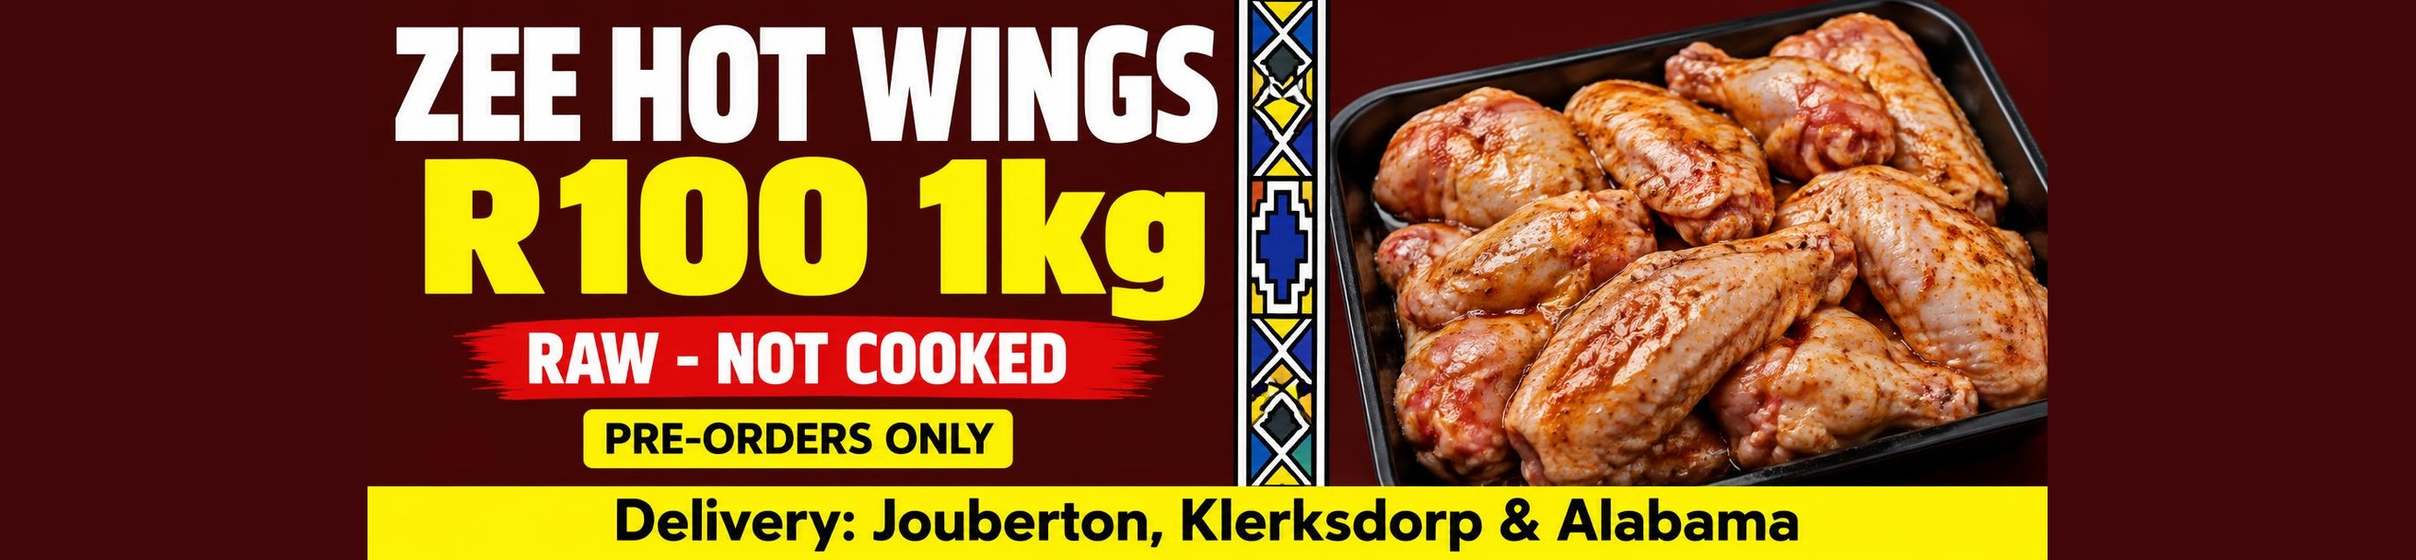
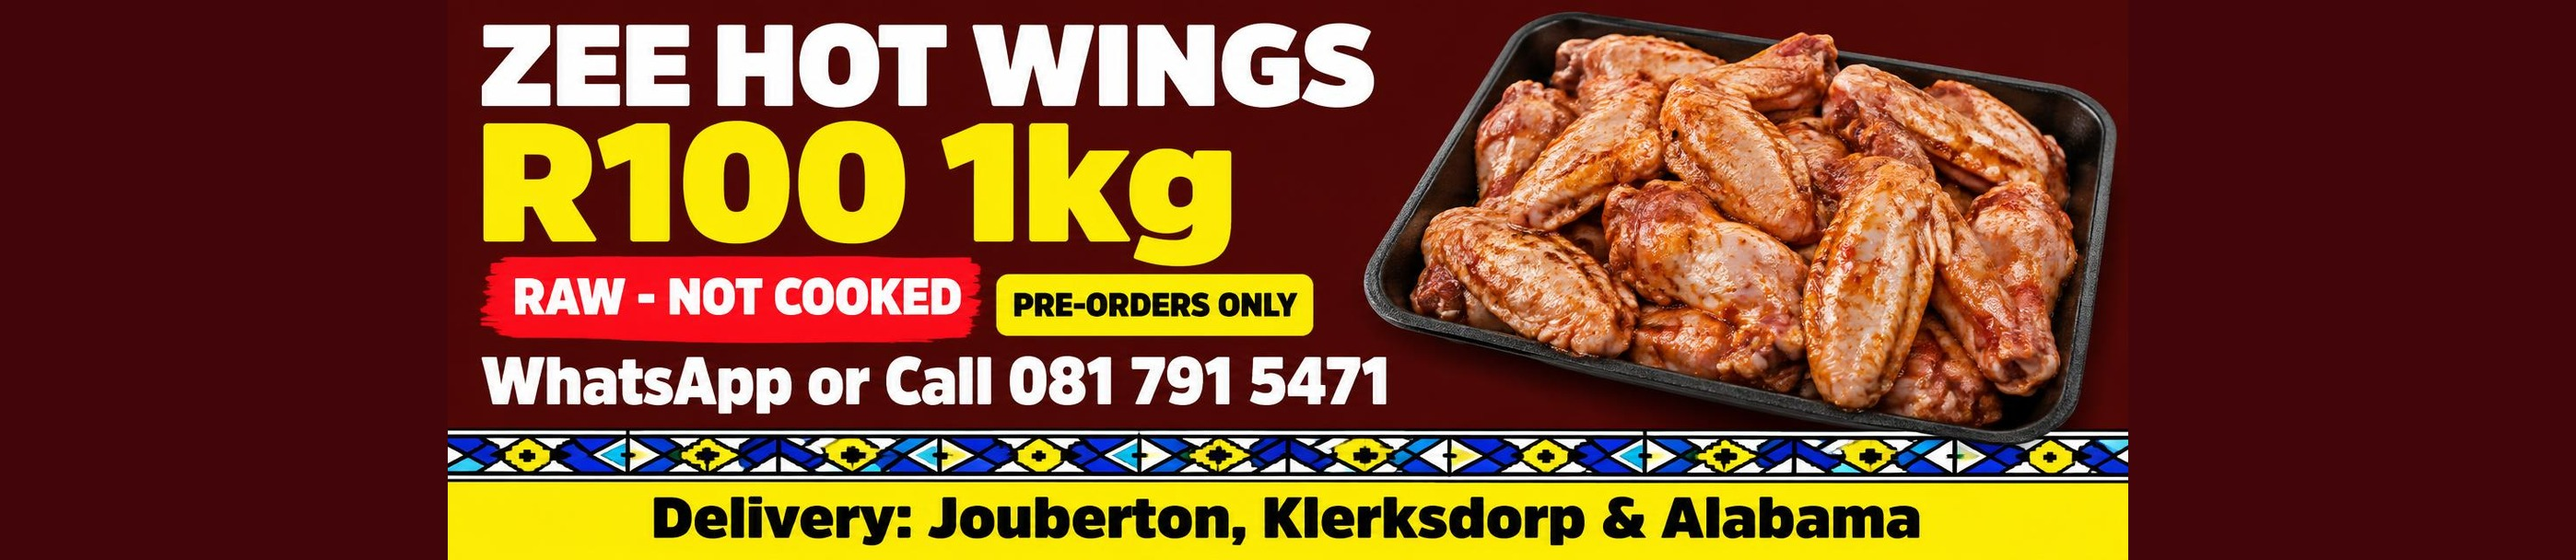
Changes

diff --git a/src/components/ZeeHotWingsSlide.tsx b/src/components/ZeeHotWingsSlide.tsx
@@ -9,10 +9,10 @@ export const ZEE_WHATSAPP_URL =
 /**
  * Zee Hot Wings advert slide.
  *
- * The poster is the whole slide: the phone crop (2.0) fills the short phone
- * band, the wide crop fills tablet and desktop. Below it sits a plain
- * "Order Now on WhatsApp" strip — a real button, not baked into the artwork —
- * and the whole slide is a link so either target opens the chat.
+ * The poster fills the whole slide (phone crop on small screens, wide crop on
+ * tablet and desktop). The "Order Now on WhatsApp" pill floats over the top
+ * right of the artwork, clear of the headline and clear of the slide dots at
+ * the bottom. The whole slide is a link, so tapping anywhere opens the chat.
  */
 export function ZeeHotWingsSlide({ active }: { active: boolean }) {
   return (
@@ -32,43 +32,45 @@ export function ZeeHotWingsSlide({ active }: { active: boolean }) {
         style={{ backgroundColor: '#42060a' }}
         onClick={(e) => e.stopPropagation()}
       >
-        <div className="flex h-full w-full flex-col">
-          <div className="relative min-h-0 flex-1">
-            <img
-              src={zeePhone}
-              alt={`Zee Hot Wings, R100 for 1kg, raw not cooked, pre-orders only. WhatsApp or call ${ZEE_DISPLAY_NUMBER}. Delivery in Jouberton, Klerksdorp and Alabama.`}
-              loading="lazy"
-              width={1536}
-              height={768}
-              draggable={false}
-              className="absolute inset-0 h-full w-full object-contain sm:hidden"
-            />
-            <img
-              src={zeeWide}
-              alt={`Zee Hot Wings, R100 for 1kg, raw not cooked, pre-orders only. WhatsApp or call ${ZEE_DISPLAY_NUMBER}. Delivery in Jouberton, Klerksdorp and Alabama.`}
-              loading="lazy"
-              width={2064}
-              height={576}
-              draggable={false}
-              className="absolute inset-0 hidden h-full w-full object-contain sm:block lg:hidden"
-            />
-            <img
-              src={zeeFull}
-              alt={`Zee Hot Wings, R100 for 1kg, raw not cooked, pre-orders only. WhatsApp or call ${ZEE_DISPLAY_NUMBER}. Delivery in Jouberton, Klerksdorp and Alabama.`}
-              loading="lazy"
-              width={2623}
-              height={608}
-              draggable={false}
-              className="absolute inset-0 hidden h-full w-full object-contain lg:block"
-            />
-          </div>
+        <img
+          src={zeePhone}
+          alt={`Zee Hot Wings, R100 for 1kg, raw not cooked, pre-orders only. WhatsApp or call ${ZEE_DISPLAY_NUMBER}. Delivery in Jouberton, Klerksdorp and Alabama.`}
+          loading="lazy"
+          width={1536}
+          height={768}
+          draggable={false}
+          className="absolute inset-0 h-full w-full object-contain sm:hidden"
+        />
+        <img
+          src={zeeWide}
+          alt={`Zee Hot Wings, R100 for 1kg, raw not cooked, pre-orders only. WhatsApp or call ${ZEE_DISPLAY_NUMBER}. Delivery in Jouberton, Klerksdorp and Alabama.`}
+          loading="lazy"
+          width={2010}
+          height={600}
+          draggable={false}
+          className="absolute inset-0 hidden h-full w-full object-contain sm:block lg:hidden"
+        />
+        <img
+          src={zeeFull}
+          alt={`Zee Hot Wings, R100 for 1kg, raw not cooked, pre-orders only. WhatsApp or call ${ZEE_DISPLAY_NUMBER}. Delivery in Jouberton, Klerksdorp and Alabama.`}
+          loading="lazy"
+          width={2796}
+          height={608}
+          draggable={false}
+          className="absolute inset-0 hidden h-full w-full object-contain lg:block"
+        />
 
-          <div className="flex h-10 shrink-0 items-center justify-center border-t border-white/10 bg-[#42060a] md:h-12">
-            <span className="rounded-full bg-[#ffc107] px-6 py-1.5 text-[13px] font-black uppercase tracking-wider text-[#42060a] shadow-md md:px-8 md:py-2 md:text-base">
-              Order Now on WhatsApp
-            </span>
-          </div>
-        </div>
+        <span className="absolute right-2 top-2 z-30 flex items-center gap-1.5 rounded-full bg-[#ffc107] px-3 py-1.5 text-[12px] font-black uppercase tracking-wide text-[#42060a] shadow-lg md:right-4 md:top-3 md:px-5 md:py-2 md:text-base">
+          <svg
+            viewBox="0 0 24 24"
+            className="h-3.5 w-3.5 md:h-4 md:w-4"
+            fill="currentColor"
+            aria-hidden
+          >
+            <path d="M12 2a10 10 0 0 0-8.6 15.1L2 22l5-1.3A10 10 0 1 0 12 2Zm5.3 14.1c-.2.6-1.3 1.2-1.8 1.2-.5.1-1 .1-1.6-.1-.4-.1-.9-.3-1.5-.6-2.6-1.1-4.3-3.7-4.4-3.9-.1-.2-1-1.4-1-2.6 0-1.2.6-1.8.9-2 .2-.3.5-.3.7-.3h.5c.2 0 .4-.1.7.5l.7 1.7c.1.2.1.4 0 .5l-.3.5-.4.4c-.1.1-.3.3-.1.6.1.3.6 1.1 1.4 1.8 1 .9 1.8 1.1 2 1.2.3.1.4.1.6-.1l.7-.8c.2-.2.4-.2.6-.1l1.6.8c.2.1.4.2.4.3.1.1.1.6-.1 1.1Z" />
+          </svg>
+          Order Now
+        </span>
 
         <div
           aria-hidden
